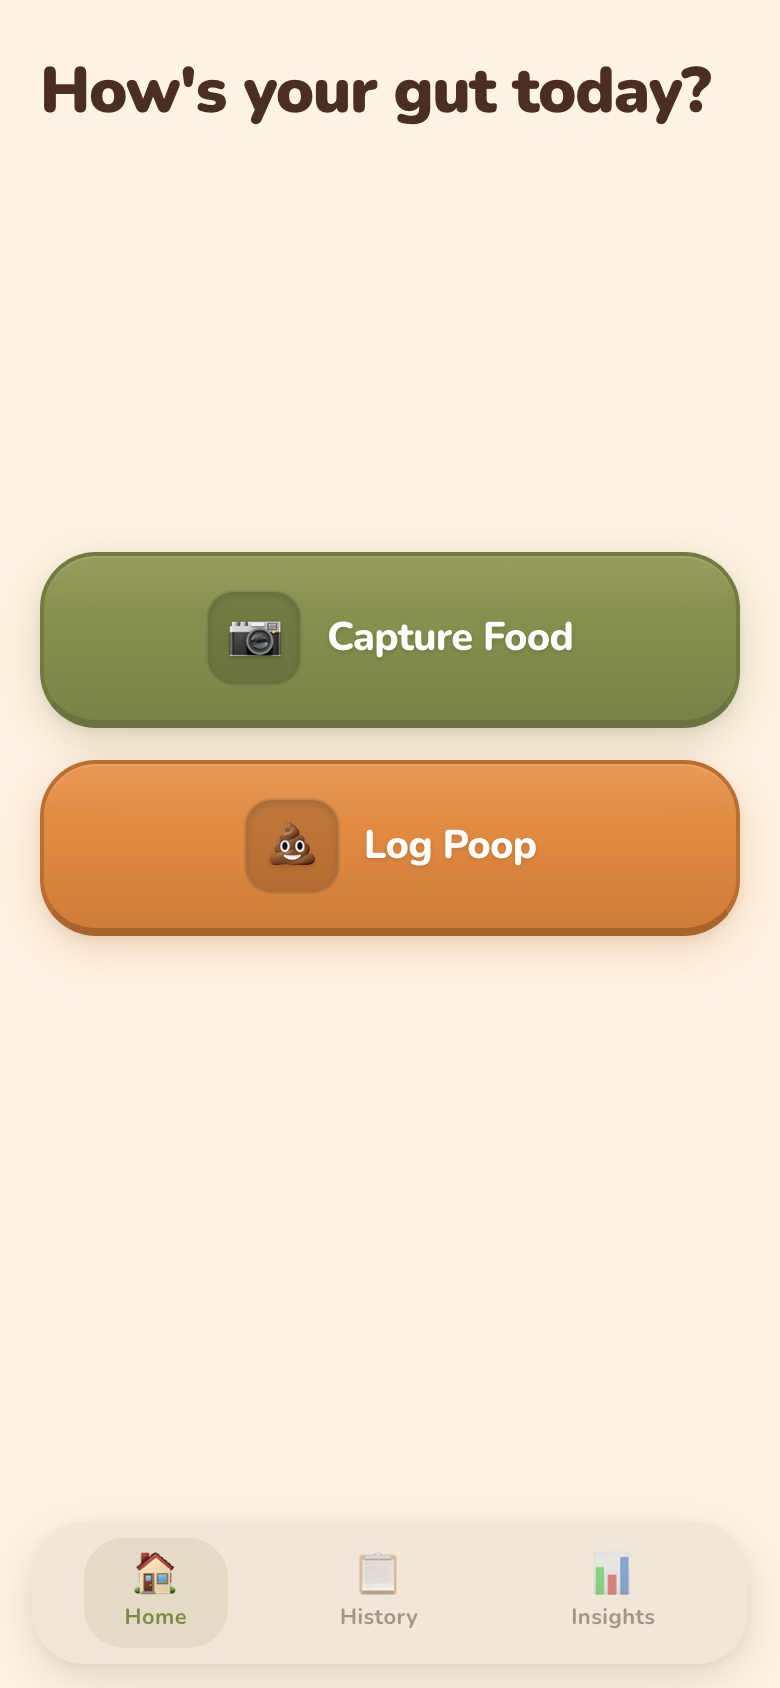
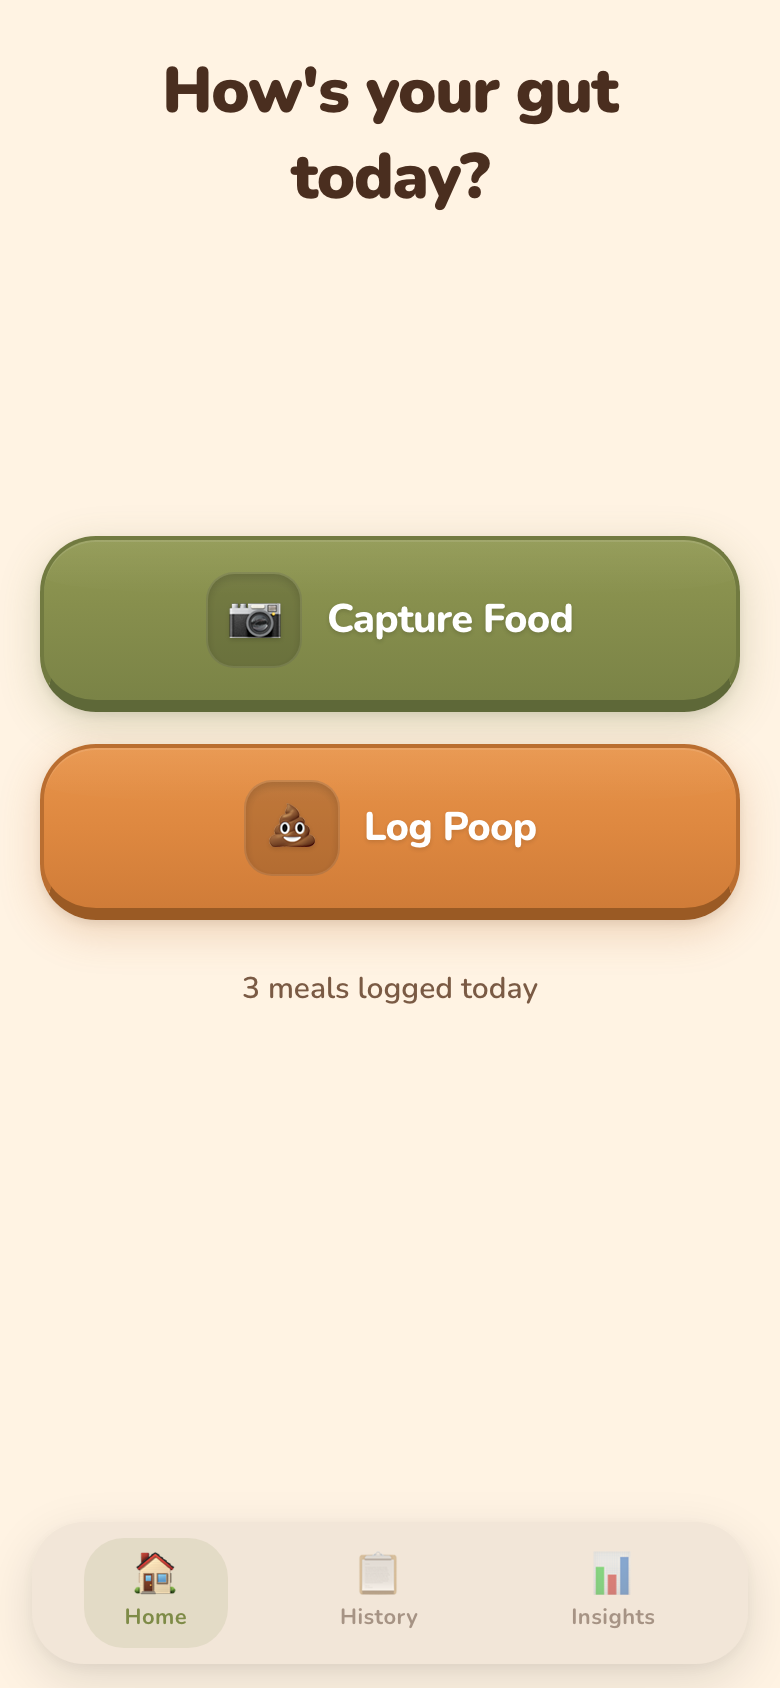
Match reference: centered title, thicker button slab, meal counter
- Center "How's your gut today?" heading with line break
- Increase button bottom ledge from 4px to 6px with darker color
  for more pronounced 3D slab effect
- Add "3 meals logged today" counter text below buttons
- Regenerate all mockups

diff --git a/src/index.css b/src/index.css
@@ -60,11 +60,11 @@ body {
   background: linear-gradient(180deg, #909852 0%, #858D4C 50%, #7A8346 100%);
   color: white;
   border: 2px solid #717A40;
-  border-bottom: 4px solid #6A7340;
+  border-bottom: 6px solid #5E6838;
   box-shadow:
     inset 0 1px 0 rgba(255, 255, 255, 0.10),
     0 6px 20px rgba(113, 122, 64, 0.25),
-    0 2px 4px rgba(0, 0, 0, 0.06);
+    0 2px 4px rgba(0, 0, 0, 0.08);
   text-shadow: 0 1px 2px rgba(0, 0, 0, 0.15);
 }
 
@@ -91,11 +91,11 @@ body {
   background: linear-gradient(180deg, #E8944A 0%, #DE8840 50%, #D07C38 100%);
   color: white;
   border: 2px solid #BA6E30;
-  border-bottom: 4px solid #A8642C;
+  border-bottom: 6px solid #9A5A24;
   box-shadow:
     inset 0 1px 0 rgba(255, 255, 255, 0.10),
     0 6px 20px rgba(186, 110, 48, 0.25),
-    0 2px 4px rgba(0, 0, 0, 0.06);
+    0 2px 4px rgba(0, 0, 0, 0.08);
   text-shadow: 0 1px 2px rgba(0, 0, 0, 0.12);
 }
 

diff --git a/src/pages/Home.js b/src/pages/Home.js
@@ -40,9 +40,9 @@ function Home() {
     <div className="page">
       {showSuccess && <div className="success-flash">Logged!</div>}
 
-      <div className="page-header">
+      <div className="page-header" style={{ textAlign: 'center' }}>
         <h1 className="page-title" style={{ fontSize: '32px' }}>
-          How's your gut today?
+          How's your gut<br />today?
         </h1>
       </div>
 
@@ -105,6 +105,10 @@ function Home() {
               </div>
             </div>
           )}
+
+          <p style={{ textAlign: 'center', color: '#7A5A44', fontSize: '15px', fontWeight: '600', marginTop: '8px' }}>
+            3 meals logged today
+          </p>
         </div>
       </div>
     </div>
